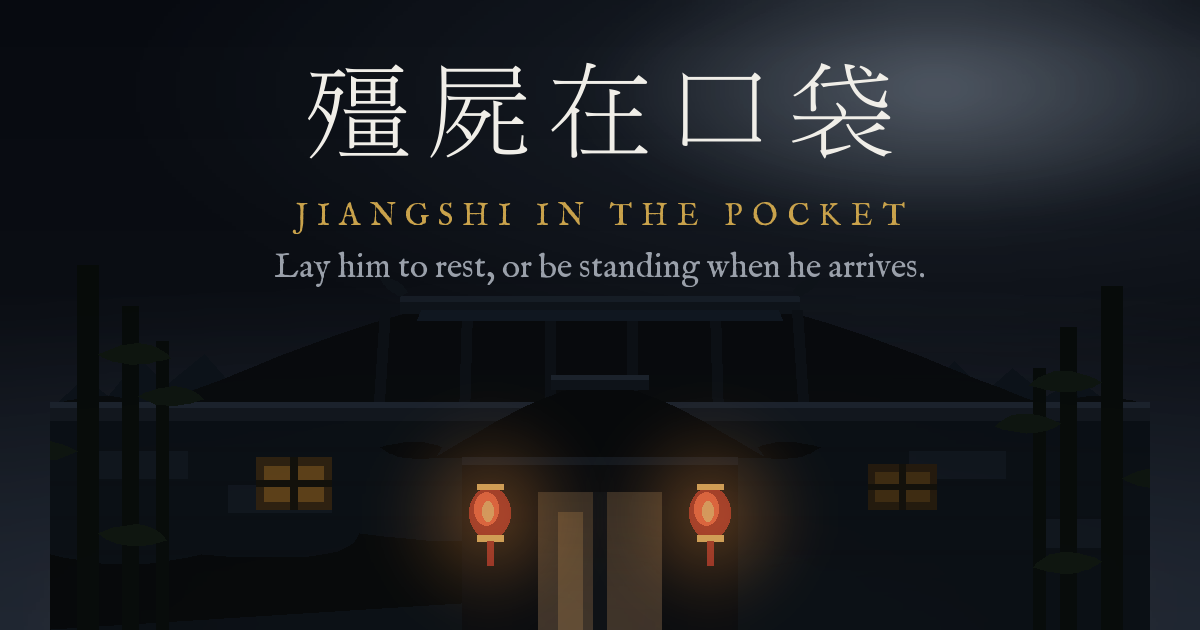
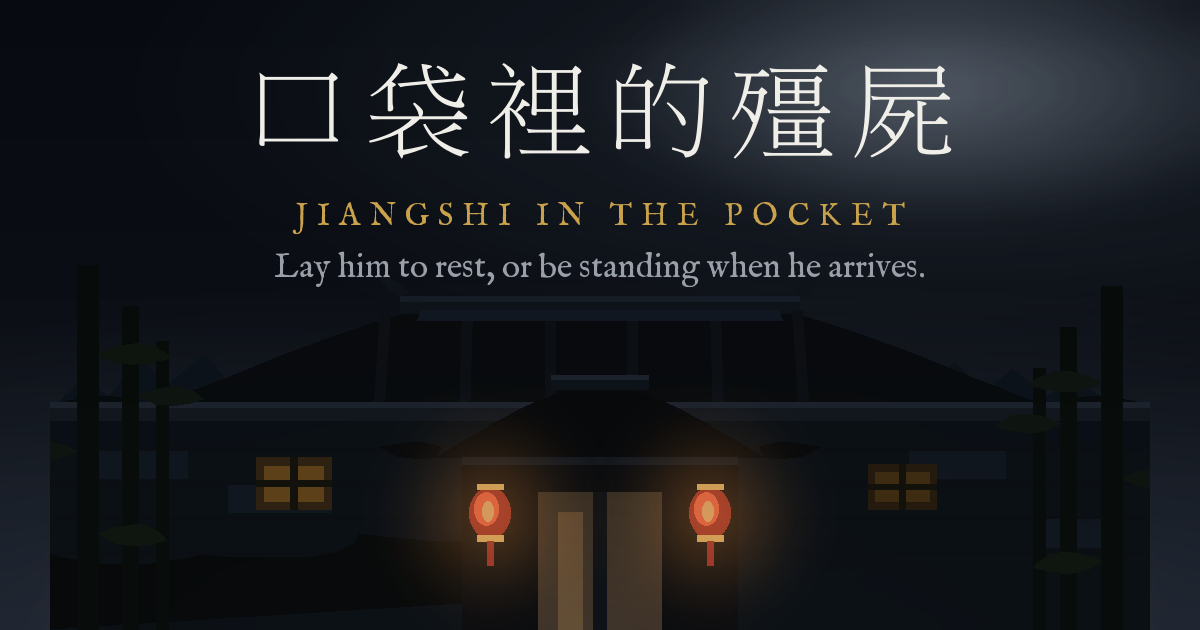
Rename the game in Chinese: 口袋裡的殭屍
The old 殭屍在口袋 was never a decision anybody recorded - it read as
a literal gloss of the English rather than a title. The user has
picked 口袋裡的殭屍: natural word order, and the name the community
already uses for the source game.

Seventeen occurrences across five pages: the landing lockup, the
JSON-LD alternateName, three meta descriptions, ten og/twitter image
alts and the attribution line in the credits.

The social card is regenerated rather than left behind, because the
alts describe the image and would otherwise have been describing a
picture that no longer existed. Six glyphs where there were five;
tracked() centres from measured widths, so the lockup needed no
retuning, and at 375px the CJK line now sits within four pixels of
the Latin one below it.

Cache to v6 - all five pages are shell.

Changed region(s): [[0.2158, 0.0905, 0.8017, 0.2714]]

diff --git a/credits.html b/credits.html
@@ -14,7 +14,7 @@
     gtag('config', 'G-Q4VS3P3T58');
   </script>
   <title>Credits — Jiangshi in the Pocket</title>
-  <meta name="description" content="Credits and attribution for 殭屍在口袋, an unofficial browser game built on a free print-and-play ruleset.">
+  <meta name="description" content="Credits and attribution for 口袋裡的殭屍, an unofficial browser game built on a free print-and-play ruleset.">
   <link rel="canonical" href="https://games.csiesheep.com/jiangshi_in_the_pocket/credits">
   <!-- The reskin has landed on this page, but the sitemap and the OG card
        are still being checked in production. Drop this line once that pass is
@@ -40,12 +40,12 @@
   <meta property="og:image" content="https://games.csiesheep.com/jiangshi_in_the_pocket/assets/social-jiangshi.png">
   <meta property="og:image:width" content="1200">
   <meta property="og:image:height" content="630">
-  <meta property="og:image:alt" content="The gate of a walled village at night under a cold moon, two red lanterns burning either side of it, under the title 殭屍在口袋 — Jiangshi in the Pocket.">
+  <meta property="og:image:alt" content="The gate of a walled village at night under a cold moon, two red lanterns burning either side of it, under the title 口袋裡的殭屍 — Jiangshi in the Pocket.">
   <meta name="twitter:card" content="summary_large_image">
   <meta name="twitter:title" content="Jiangshi in the Pocket — Credits">
   <meta name="twitter:description" content="Who made it, and the free print-and-play ruleset underneath it.">
   <meta name="twitter:image" content="https://games.csiesheep.com/jiangshi_in_the_pocket/assets/social-jiangshi.png">
-  <meta name="twitter:image:alt" content="The gate of a walled village at night under a cold moon, two red lanterns burning either side of it, under the title 殭屍在口袋 — Jiangshi in the Pocket.">
+  <meta name="twitter:image:alt" content="The gate of a walled village at night under a cold moon, two red lanterns burning either side of it, under the title 口袋裡的殭屍 — Jiangshi in the Pocket.">
 
   <!-- The trail, so a search result shows "Jiangshi in the Pocket > Credits" rather than a
        bare URL. Positions are the real hierarchy: everything on this site is one
@@ -81,7 +81,7 @@
     </p>
 
     <h2>This version</h2>
-    <p><em>殭屍在口袋 — Jiangshi in the Pocket</em> is an unofficial, fan-made
+    <p><em>口袋裡的殭屍 — Jiangshi in the Pocket</em> is an unofficial, fan-made
       browser version. It
       reimplements the original's rules and numbers — which aren't copyrightable
       — under a different title, with its own setting, room and item names,

diff --git a/index.html b/index.html
@@ -40,19 +40,19 @@
   <meta property="og:image" content="https://games.csiesheep.com/jiangshi_in_the_pocket/assets/social-jiangshi.png">
   <meta property="og:image:width" content="1200">
   <meta property="og:image:height" content="630">
-  <meta property="og:image:alt" content="The gate of a walled village at night under a cold moon, two red lanterns burning either side of it, under the title 殭屍在口袋 — Jiangshi in the Pocket.">
+  <meta property="og:image:alt" content="The gate of a walled village at night under a cold moon, two red lanterns burning either side of it, under the title 口袋裡的殭屍 — Jiangshi in the Pocket.">
   <meta name="twitter:card" content="summary_large_image">
   <meta name="twitter:title" content="Jiangshi in the Pocket — a solo hopping-vampire board game in your browser">
   <meta name="twitter:description" content="One night, one village, one thing in a coffin that has waited too long. Lay him to rest, or meet him at midnight. Free, no install, one player.">
   <meta name="twitter:image" content="https://games.csiesheep.com/jiangshi_in_the_pocket/assets/social-jiangshi.png">
-  <meta name="twitter:image:alt" content="The gate of a walled village at night under a cold moon, two red lanterns burning either side of it, under the title 殭屍在口袋 — Jiangshi in the Pocket.">
+  <meta name="twitter:image:alt" content="The gate of a walled village at night under a cold moon, two red lanterns burning either side of it, under the title 口袋裡的殭屍 — Jiangshi in the Pocket.">
 
   <script type="application/ld+json">
   {
     "@context": "https://schema.org",
     "@type": "VideoGame",
     "name": "Jiangshi in the Pocket",
-    "alternateName": "殭屍在口袋",
+    "alternateName": "口袋裡的殭屍",
     "url": "https://games.csiesheep.com/jiangshi_in_the_pocket/",
     "description": "A free solo horror board game in the browser. The village has locked its doors and the corpse hostel at the end of it holds one coffin that has waited too long. Find the ancestral tablet, bury it in the mass grave before the third watch, or be standing and armed when he comes for you.",
     "genre": ["Survival horror", "Board game", "Roguelike"],
@@ -226,7 +226,7 @@
 
   <main class="menu">
     <h1 class="title">
-      <span class="title-cjk">殭屍在口袋</span>
+      <span class="title-cjk">口袋裡的殭屍</span>
       <span class="title-latin">Jiangshi in the Pocket</span>
     </h1>
     <p class="tagline">It is nine at night. At the third watch he comes for you.

diff --git a/rulebook.html b/rulebook.html
@@ -14,7 +14,7 @@
     gtag('config', 'G-Q4VS3P3T58');
   </script>
   <title>Rulebook — how to play Jiangshi in the Pocket</title>
-  <meta name="description" content="How to play 殭屍在口袋: the thirty-turn night, the action-event-search turn, cowering, 中毒, the villager, and the two ways the night can end.">
+  <meta name="description" content="How to play 口袋裡的殭屍: the thirty-turn night, the action-event-search turn, cowering, 中毒, the villager, and the two ways the night can end.">
   <link rel="canonical" href="https://games.csiesheep.com/jiangshi_in_the_pocket/rulebook">
   <!-- The reskin has landed on this page, but the sitemap and the OG card
        are still being checked in production. Drop this line once that pass is
@@ -40,12 +40,12 @@
   <meta property="og:image" content="https://games.csiesheep.com/jiangshi_in_the_pocket/assets/social-jiangshi.png">
   <meta property="og:image:width" content="1200">
   <meta property="og:image:height" content="630">
-  <meta property="og:image:alt" content="The gate of a walled village at night under a cold moon, two red lanterns burning either side of it, under the title 殭屍在口袋 — Jiangshi in the Pocket.">
+  <meta property="og:image:alt" content="The gate of a walled village at night under a cold moon, two red lanterns burning either side of it, under the title 口袋裡的殭屍 — Jiangshi in the Pocket.">
   <meta name="twitter:card" content="summary_large_image">
   <meta name="twitter:title" content="Jiangshi in the Pocket — Rulebook">
   <meta name="twitter:description" content="The thirty-turn night, the turn, cowering, poison and the villager — and what comes at the third watch. Free, no install, one player.">
   <meta name="twitter:image" content="https://games.csiesheep.com/jiangshi_in_the_pocket/assets/social-jiangshi.png">
-  <meta name="twitter:image:alt" content="The gate of a walled village at night under a cold moon, two red lanterns burning either side of it, under the title 殭屍在口袋 — Jiangshi in the Pocket.">
+  <meta name="twitter:image:alt" content="The gate of a walled village at night under a cold moon, two red lanterns burning either side of it, under the title 口袋裡的殭屍 — Jiangshi in the Pocket.">
 
   <!-- The trail, so a search result shows "Jiangshi in the Pocket > Rulebook" rather than a
        bare URL. Positions are the real hierarchy: everything on this site is one

diff --git a/game.html b/game.html
@@ -14,7 +14,7 @@
     gtag('config', 'G-Q4VS3P3T58');
   </script>
   <title>Play Jiangshi in the Pocket in your browser</title>
-  <meta name="description" content="Play 殭屍在口袋: a solo horror board game of room-by-room exploration against the third watch.">
+  <meta name="description" content="Play 口袋裡的殭屍: a solo horror board game of room-by-room exploration against the third watch.">
   <link rel="canonical" href="https://games.csiesheep.com/jiangshi_in_the_pocket/game">
   <!-- The reskin has landed on this page, but the sitemap and the OG card
        are still being checked in production. Drop this line once that pass is
@@ -40,12 +40,12 @@
   <meta property="og:image" content="https://games.csiesheep.com/jiangshi_in_the_pocket/assets/social-jiangshi.png">
   <meta property="og:image:width" content="1200">
   <meta property="og:image:height" content="630">
-  <meta property="og:image:alt" content="The gate of a walled village at night under a cold moon, two red lanterns burning either side of it, under the title 殭屍在口袋 — Jiangshi in the Pocket.">
+  <meta property="og:image:alt" content="The gate of a walled village at night under a cold moon, two red lanterns burning either side of it, under the title 口袋裡的殭屍 — Jiangshi in the Pocket.">
   <meta name="twitter:card" content="summary_large_image">
   <meta name="twitter:title" content="Play Jiangshi in the Pocket">
   <meta name="twitter:description" content="One night, one village, one thing in a coffin that has waited too long. Free, no install, one player.">
   <meta name="twitter:image" content="https://games.csiesheep.com/jiangshi_in_the_pocket/assets/social-jiangshi.png">
-  <meta name="twitter:image:alt" content="The gate of a walled village at night under a cold moon, two red lanterns burning either side of it, under the title 殭屍在口袋 — Jiangshi in the Pocket.">
+  <meta name="twitter:image:alt" content="The gate of a walled village at night under a cold moon, two red lanterns burning either side of it, under the title 口袋裡的殭屍 — Jiangshi in the Pocket.">
 
   <!-- The trail, so a search result shows "Jiangshi in the Pocket > Play" rather than a
        bare URL. Positions are the real hierarchy: everything on this site is one

diff --git a/tiles.html b/tiles.html
@@ -40,12 +40,12 @@
   <meta property="og:image" content="https://games.csiesheep.com/jiangshi_in_the_pocket/assets/social-jiangshi.png">
   <meta property="og:image:width" content="1200">
   <meta property="og:image:height" content="630">
-  <meta property="og:image:alt" content="The gate of a walled village at night under a cold moon, two red lanterns burning either side of it, under the title 殭屍在口袋 — Jiangshi in the Pocket.">
+  <meta property="og:image:alt" content="The gate of a walled village at night under a cold moon, two red lanterns burning either side of it, under the title 口袋裡的殭屍 — Jiangshi in the Pocket.">
   <meta name="twitter:card" content="summary_large_image">
   <meta name="twitter:title" content="Jiangshi in the Pocket — The Tiles">
   <meta name="twitter:description" content="All twenty tiles on one sheet: the village, the hillside, and what each place does to you.">
   <meta name="twitter:image" content="https://games.csiesheep.com/jiangshi_in_the_pocket/assets/social-jiangshi.png">
-  <meta name="twitter:image:alt" content="The gate of a walled village at night under a cold moon, two red lanterns burning either side of it, under the title 殭屍在口袋 — Jiangshi in the Pocket.">
+  <meta name="twitter:image:alt" content="The gate of a walled village at night under a cold moon, two red lanterns burning either side of it, under the title 口袋裡的殭屍 — Jiangshi in the Pocket.">
 
   <!-- The trail, so a search result shows "Jiangshi in the Pocket > The Tiles" rather than a
        bare URL. Positions are the real hierarchy: everything on this site is one

diff --git a/sw.js b/sw.js
@@ -14,7 +14,7 @@
 // games sharing a prefix would evict each other on every visit: offline play
 // broken on both, and the whole shell re-fetched each time. Keep "jiangshi-".
 
-const CACHE = "jiangshi-v5";
+const CACHE = "jiangshi-v6";
 
 // Everything needed to open the game with no network. Relative paths on
 // purpose: this ships under a subpath (…/jiangshi_in_the_pocket/) and absolute

diff --git a/tools/make_social.py b/tools/make_social.py
@@ -325,7 +325,7 @@ def tracked(text, font, y, fill, track=0):
         x += w + track
 
 
-tracked("殭屍在口袋", name, 58, TEXT, track=17)
+tracked("口袋裡的殭屍", name, 58, TEXT, track=17)
 tracked("JIANGSHI IN THE POCKET", gloss, 196, GOLD, track=9)
 tracked("Lay him to rest, or be standing when he arrives.", sub, 246, MUTED)
 
